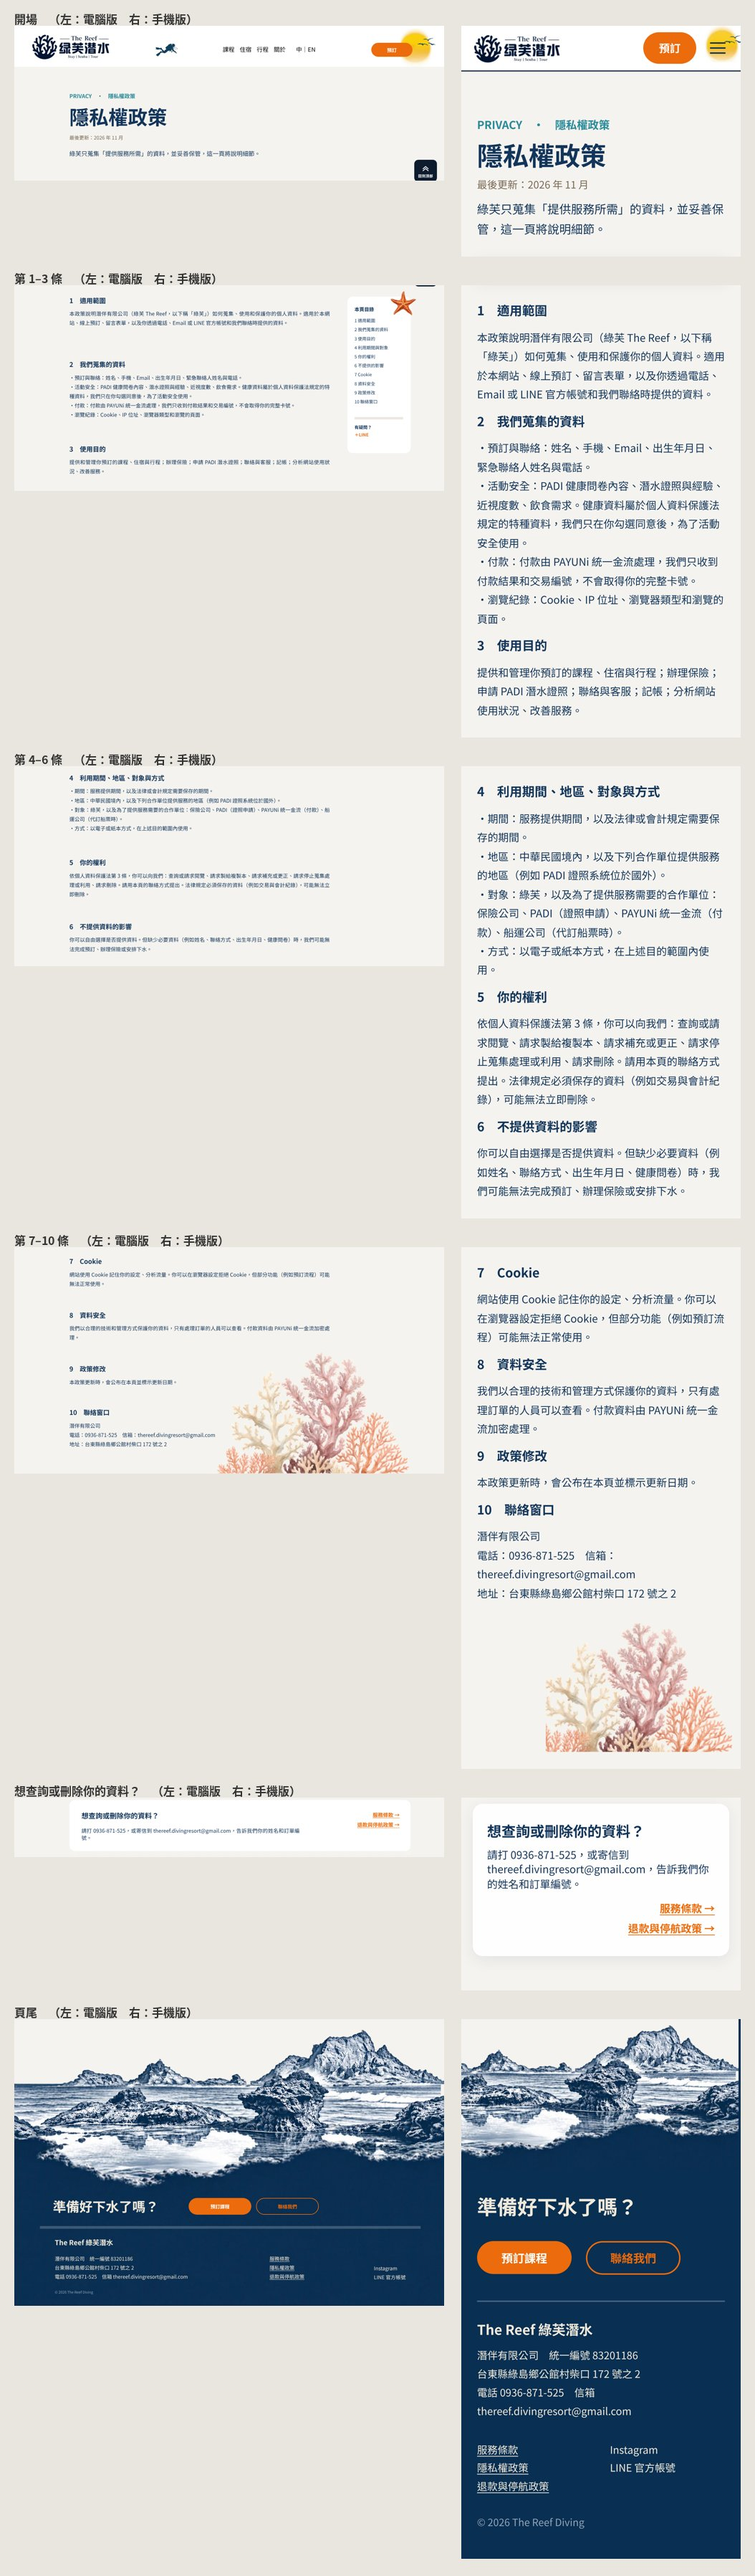
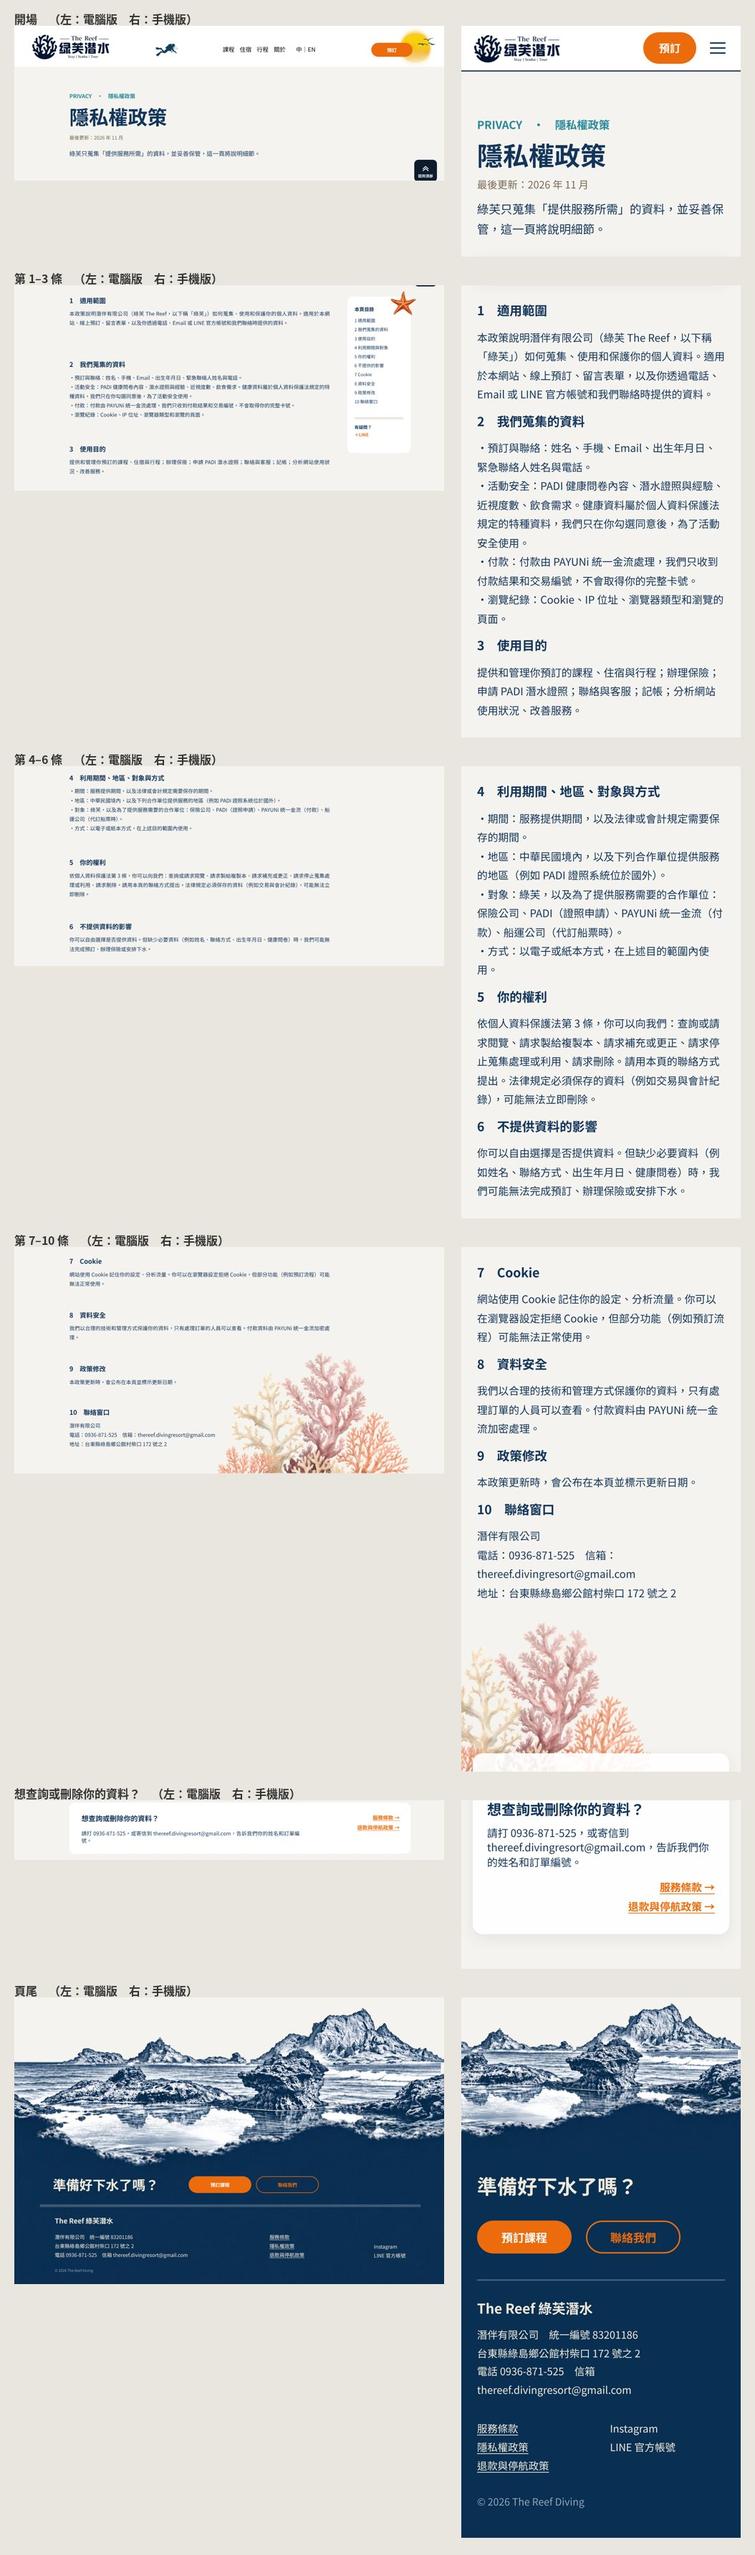
手機版：照 Ambre 11/24 回覆改完一輪（首頁、預訂目錄、條款、隱私權、課程、住宿、行程、關於、全站回到頂部與頁首）；電腦版跟 main 逐像素相同
Claude-Session: https://claude.ai/code/session_01CnUJQbiMrA1W4TEKzzgQDp

diff --git a/scripts/mobile-blocks.js b/scripts/mobile-blocks.js
@@ -19,14 +19,23 @@
 
 function r(n) { return Math.round(n * 1000) / 1000; }
 
-function bandData(b, s, imgUrl, dx, dy) {
+function bandData(b, s, imgUrl, dx, dy, page) {
   const [x0r, y0r, x1r, y1r] = b.band;
-  const x0 = x0r + dx, x1 = x1r + dx, y1 = y1r + dy, y0 = Math.max(0, y0r + dy); // 頁尾往上位移的頁：不切到底圖外面
+  // 位移後夾在底圖範圍內（頁尾往上／往左右位移的頁：不切到底圖外面，才不會露出色條）
+  // span：這塊跨到上一段或下一段（例如住宿珊瑚跨「入住前請先看」和頁尾）→ 用整頁座標，把相鄰段的底圖接起來
+  const span = !!(b.span && page && page.secs.length);
+  const x0 = Math.max(0, x0r + dx), x1 = Math.min(1440, x1r + dx), y1 = y1r + dy, y0 = span ? y0r + dy : Math.max(0, y0r + dy);
   const w = x1 - x0, h = y1 - y0;
-  const out = { type: "band", cls: b.cls || "", ar: r(w / h), maxW: b.w || null, fish: [] };
+  const out = { type: "band", cls: b.cls || "", ar: r(w / h), maxW: b.w || null, fish: [], imgs: [] };
   if (b.img !== false && !(b.img == null && b.fish !== false)) { // 有魚的插圖窗預設不帶底圖（魚直接疊在這段的底圖上，才不會有接縫）
-    out.img = imgUrl;
-    out.imgStyle = `left:${r(-x0 / w * 100)}%;top:${r(-y0 / h * 100)}%;width:${r(1440 / w * 100)}%;height:${r(s.height / h * 100)}%`;
+    const one = (src, top, height) => out.imgs.push({ src, style: `left:${r(-x0 / w * 100)}%;top:${r((top - y0) / h * 100)}%;width:${r(1440 / w * 100)}%;height:${r(height / h * 100)}%` });
+    if (span) {
+      const me = page.secs.find((x) => x.key === s.key);
+      for (const n of page.secs) {
+        const top = n.top - me.top;
+        if (top < y1 && top + n.height > y0) one(`/assets/img/${page.imgDir}/${n.img}`, top, n.height);
+      }
+    } else one(imgUrl, 0, s.height);
   }
   if (b.fish !== false) {
     const pick = Array.isArray(b.fish) ? b.fish : null;
@@ -46,7 +55,8 @@ function bandData(b, s, imgUrl, dx, dy) {
   return out;
 }
 
-module.exports = function mBlocks(s, pageKey, home, mobile, imgDir, prefix) {
+module.exports = function mBlocks(s, pageKey, home, mobile, imgDir, prefix, secs) {
+  const page = { secs: secs || [], imgDir };
   mobile = mobile || {};
   // 圖片網址：<img src> 由 Eleventy 自動加網址前綴；寫在 CSS 變數裡的要自己加（prefix＝"/" | url）
   const pre = (prefix || "/").replace(/\/$/, "");
@@ -67,7 +77,14 @@ module.exports = function mBlocks(s, pageKey, home, mobile, imgDir, prefix) {
   const isHomeOpen = pageKey === "home" && s.key === "open";
   const isHead = (e) => e.from === "open" || (isHomeOpen && e.it.y < 140);
   const isFooter = !!footerShift || (pageKey === "home" && s.key === "footer");
-  const cfg = isFooter ? (mobile.footer || {}) : (((mobile.pages || {})[pageKey] || {})[s.key] || {});
+  const pcfg = (mobile.pages || {})[pageKey] || {};
+  // 頁尾全站一份；個別頁可在 pages.<頁>.footer 寫 band（換掉插圖窗範圍）、bg、pad
+  let cfg = isFooter ? (mobile.footer || {}) : (pcfg[s.key] || {});
+  if (isFooter && pcfg.footer) {
+    const o = pcfg.footer;
+    cfg = { ...cfg, ...o, blocks: (cfg.blocks || []).filter((b) => !(b.band && o.band === false))
+      .map((b) => (b.band ? { ...b, band: o.band || b.band, cls: [b.cls, o.bandCls].filter(Boolean).join(" ") } : b)) };
+  }
   const shift = footerShift || { dx: 0, dy: 0 };
 
   const used = new Set();
@@ -86,8 +103,9 @@ module.exports = function mBlocks(s, pageKey, home, mobile, imgDir, prefix) {
   }
   const find = (ref) => entries.find((e) => !used.has(e) && !isHead(e) && e.key === ref);
   for (const b of cfg.blocks || []) {
+    if (b.scroll) { blocks.push({ type: "scroll", cls: b.cls || "" }); continue; } // 手機版「向下捲動」
     if (b.band) {
-      const bd = bandData(b, s, imgUrl, shift.dx, shift.dy);
+      const bd = bandData(b, s, imgUrl, shift.dx, shift.dy, page);
       // 疊在插圖上的文字（例如地圖上的地名）：照比例放在插圖窗裡，字至少 14px
       const [x0, y0, x1, y1] = b.band, w = x1 - x0, h = y1 - y0;
       bd.texts = [];
@@ -137,7 +155,7 @@ module.exports = function mBlocks(s, pageKey, home, mobile, imgDir, prefix) {
   if (bg.none) vars += `--mbgimg:none;`;
   if (cfg.pad) vars += `--mspad:${cfg.pad};`;
   if (cfg.msgap != null) vars += `--msgap:${cfg.msgap}px;`;
-  return { blocks, vars };
+  return { blocks, vars, cls: cfg.scls || "" };
 };
 
 // 錨點（例如 /about/#contact）在手機上的排序：放在它所在那一段的前面

diff --git a/src/assets/css/canvas-mobile.css b/src/assets/css/canvas-mobile.css
@@ -167,3 +167,27 @@
 /* 一張照片跨兩段（住宿背包客房）：下半段接在上一段最後，中間不留縫 */
 .hc-mband.joined { margin-top: calc(-1 * var(--msgap, 28px) + var(--msgap, 28px)); }
 .hc-sticky > .hc-t { line-height: 2.4 !important; } /* 目錄每一條比較好點 */
+
+/* ===== 11/24 Ambre 修改 ===== */
+/* 「向下捲動」：照開場那個樣子（粗體、字距、下面一條細線輕輕往下動），每兩段放一個 */
+.hc-mscroll { display: flex; flex-direction: column; align-items: center; gap: 10px; padding: 8px 0 4px; color: var(--msc, #fff); font-size: 14px; font-weight: 700; letter-spacing: .13em; }
+.hc-mscroll::after { content: ""; width: 1.5px; height: 40px; background: linear-gradient(currentColor, transparent); transform-origin: top; animation: hc-mscroll 2.2s ease-in-out infinite; }
+.hc-mscroll.dark { --msc: #12355b; }
+@keyframes hc-mscroll { 0% { transform: scaleY(0); opacity: 1; } 60% { transform: scaleY(1); opacity: 1; } 100% { transform: scaleY(1); opacity: 0; } }
+@media (prefers-reduced-motion: reduce) { .hc-mscroll::after { animation: none; } }
+
+/* 插圖窗上緣淡入（接上一段的底色，不留分界線） */
+.hc-mband.fade { -webkit-mask-image: linear-gradient(transparent, #000 var(--mfade, 60px)); mask-image: linear-gradient(transparent, #000 var(--mfade, 60px)); }
+.hc-mband.fade-long { --mfade: 120px; }
+/* 住宿豪華雙人房照片縮 10% */
+.hc-mband.inset.s90 { width: calc((100% - 44px) * .9); }
+/* 靠左、超出版面左邊（隱私權珊瑚），底部壓在下一段的卡片後面 */
+.hc-mband.bleedl { margin-left: -36px; margin-right: auto; }
+.hc-sec.overlap-up { z-index: 2; }
+.hc-sec.overlap-up > .hc-mg.card:first-child { margin-top: -26px; }
+/* 跟在文字旁邊上下飄的小插圖（關於頁水母，放在「在 Google 地圖開啟」右邊） */
+.hc-mband.beside { width: 56px; margin: calc(-1 * var(--msgap, 28px) - 58px) 0 0 210px; overflow: visible; }
+
+/* 課程頁：字再小 15%（內文最小 14px 不變） */
+.hc-page-courses { --mk: .85; }
+.hc-page-courses .hc-t { font-size: max(14px, calc(var(--mfs, calc(var(--fs) * .62px + 4px)) * var(--mk))) !important; }

diff --git a/src/assets/js/booking.js b/src/assets/js/booking.js
@@ -164,7 +164,7 @@
   }
 
   root.innerHTML = BLOCKS.map((b) => {
-    let h = '<section class="bk-card' + (b.multi ? " bk-multi" : "") + (b.note ? "" : " no-note") + '" data-block="' + b.key + '">' +
+    let h = '<section class="bk-card' + (b.multi ? " bk-multi" : "") + (b.note ? "" : " no-note") + '" id="bk-b-' + b.key + '" data-block="' + b.key + '">' +
       '<h2 class="bk-title">' + esc(b.title) + '</h2><p class="bk-intro">' + esc(b.intro) + '</p><div class="bk-rows">';
     if (b.multi) {
       h += '<details class="bk-ms"><summary>請選擇（可複選）' + SP + "▾</summary><div class=\"bk-ms-list\">" +
@@ -174,6 +174,9 @@
     if (b.note) h += '<p class="bk-note"></p>';
     return h + "</section>";
   }).join("");
+  // 手機版「目錄區塊」（11/24 Ambre）：列出七個區塊，點了跳過去；電腦版 CSS 不顯示
+  const toc = document.getElementById("bk-toc-list");
+  if (toc) toc.innerHTML = BLOCKS.map((b) => '<li><a href="#bk-b-' + b.key + '">' + esc(b.title.replace(/（可複選）/, "")) + "</a></li>").join("");
 
   const rowEl = (b, r) => root.querySelector('.bk-row[data-block="' + b.key + '"][data-row="' + r.key + '"]:not([data-extra])');
   const extraEl = (b, r) => root.querySelector('.bk-row[data-block="' + b.key + '"][data-row="' + r.key + '"][data-extra]');

diff --git a/src/assets/css/booking.css b/src/assets/css/booking.css
@@ -139,6 +139,8 @@ body:has(.bk) .hc-scale { overflow-x: clip; }
 .bk-info h3 { margin: 0 0 8px; color: #12355b; font-size: 15.3px; font-weight: 700; }
 .bk-info p { margin: 0; }
 
+.bk-toc { display: none; } /* 目錄區塊只在手機顯示 */
+
 /* ---------- 手機（≤768px）：同樣的卡片、框線、橘色按鈕，改成一欄由上往下；訂單摘要接在表單下面 ---------- */
 @media (max-width: 768px) {
   .hc-flow, .bk { width: 100%; }
@@ -202,4 +204,10 @@ body:has(.bk) .hc-scale { overflow-x: clip; }
   .bk-sum-total span { font-size: 18px; }
   .bk-sum-total strong { font-size: 23px; }
   .bk-summary .bk-next { width: 100%; }
+  /* 目錄區塊（11/24 Ambre）：最上面一張卡，兩欄，點了跳到該區塊 */
+  .bk[data-step="1"] .bk-toc { display: block; margin: 0 12px 16px; padding: 16px 16px 10px; border-radius: 16px; background: #fff; }
+  .bk-toc-h { margin: 0 0 6px; font-size: 16px; font-weight: 700; }
+  .bk-toc ol { display: grid; grid-template-columns: 1fr 1fr; column-gap: 12px; margin: 0; padding: 0; list-style: none; }
+  .bk-toc a { display: flex; align-items: center; min-height: 44px; font-size: 15px; color: #12355b; text-decoration: none; border-bottom: 1px solid #ece6da; }
+  .bk-card[id] { scroll-margin-top: 12px; }
 }

diff --git a/scripts/mobile-shot.js b/scripts/mobile-shot.js
@@ -28,7 +28,7 @@ async function shoot(browser, opts, route, out) {
   await page.waitForTimeout(400);
   const info = await page.evaluate(() => ({ sw: document.documentElement.scrollWidth, cw: document.documentElement.clientWidth, h: document.documentElement.scrollHeight,
     // 每一段的位置（給 scripts/mobile-compare.py 做電腦版／手機版同一段並排比對圖）
-    secs: [...document.querySelectorAll(".hc-sec")].map((e) => { const r = e.getBoundingClientRect(); return { key: e.className.replace(/.*hc-sec-/, ""), name: e.dataset.name, y: r.top + scrollY, h: r.height }; }),
+    secs: [...document.querySelectorAll(".hc-sec")].map((e) => { const r = e.getBoundingClientRect(); return { key: (e.className.match(/hc-sec-(\S+)/) || [])[1], name: e.dataset.name, y: r.top + scrollY, h: r.height }; }),
     flow: (() => { const f = document.querySelector(".hc-flow"); if (!f) return null; const r = f.getBoundingClientRect(); return { y: r.top + scrollY, h: r.height }; })() }));
   fs.writeFileSync(out.replace(/\.png$/, ".json"), JSON.stringify(info));
   await page.screenshot({ path: out, fullPage: true });

diff --git a/src/assets/css/back-to-top.css b/src/assets/css/back-to-top.css
@@ -37,9 +37,10 @@
   .bt-label { font-size: 10px; }
 }
 
-/* 手機（≤768px，直排版）：改放右下角、捲動一段之後才出現，不擋內容 */
+/* 手機（≤768px，直排版）：11/24 Ambre：每頁一直看得到，簡化成明顯的白底深藍「向上」箭頭，固定在右下角跟著畫面 */
 @media (max-width: 768px) {
-  .back-to-top { top: auto !important; bottom: 16px; right: 12px; width: 52px; padding: 8px 4px 7px; border-radius: 12px; gap: 3px; background: rgba(13,27,46,.88); }
-  .bt-chevrons { width: 18px; height: 18px; }
-  .bt-label { font-size: 10px; letter-spacing: 0; }
+  .back-to-top { top: auto !important; bottom: 18px; right: 14px; width: 48px; height: 48px; padding: 0; border-radius: 50%; gap: 0;
+    background: #fff; color: #12355b; border: 2px solid #12355b; box-shadow: 0 6px 16px rgba(13,27,46,.25); }
+  .bt-chevrons { width: 22px; height: 22px; color: #12355b; }
+  .bt-label { position: absolute; width: 1px; height: 1px; overflow: hidden; clip: rect(0 0 0 0); }
 }

diff --git a/src/assets/js/back-to-top.js b/src/assets/js/back-to-top.js
@@ -22,9 +22,7 @@
   function updateVisible() {
     // 只有頁面比一個螢幕高度長才需要「回到頂部」（11/17 Ambre：超過一卷的頁面才加）
     var scrollable = document.documentElement.scrollHeight > window.innerHeight + 80;
-    // 手機直排版（≤768px）：捲過大半個螢幕才出現，不擋開場內容
-    var narrow = window.matchMedia && window.matchMedia("(max-width: 768px)").matches;
-    btn.classList.toggle("is-visible", scrollable && (!narrow || window.scrollY > window.innerHeight * 0.8));
+    btn.classList.toggle("is-visible", scrollable); // 11/24 Ambre：手機也一進頁面就看得到
   }
 
   // 一進頁面就顯示並跟著滑鼠（11/17 Ambre：不用等捲動），先放在畫面中央

diff --git a/src/assets/css/canvas-page.css b/src/assets/css/canvas-page.css
@@ -125,4 +125,4 @@ label.hc-t { cursor: pointer; }
 
 /* 手機版（≤768px，canvas-mobile.css）用的分組外框與元件：電腦版不產生方框、不顯示，畫面跟原本一樣 */
 .hc-mg { display: contents; }
-.hc-mband, .hc-mlogo, .hc-msun, .hc-mnav-btn { display: none; }
+.hc-mband, .hc-mlogo, .hc-msun, .hc-mnav-btn, .hc-mscroll { display: none; }

diff --git a/docs/手機版修改_1124.md b/docs/手機版修改_1124.md
@@ -5,44 +5,44 @@
 > 每做完一頁：在本檔該項後面打 ✅、commit＋push `mobile`。
 
 ## 首頁
-1. 第 1 段（12 m）：照片和文字兩塊上下對調 → 先文字（12 m 大字＋短暫成為海洋世界的一部分），再照片。（Ambre 截圖：潛水員照片在上、12 m 文字在下，要倒過來）
-2. 每兩段加一個「向下捲動」（照開場那個「向下捲動」的樣子）。
-3. 第 2 段（18 m／30 m 那段）：照片（插圖）和文字兩塊上下對調；**海扇、鰻魚不要出現**。
-4. 頁首拿掉黃色太陽（全站頁首共用，一起拿掉）。
+1. 第 1 段（12 m）：照片和文字兩塊上下對調 → 先文字（12 m 大字＋短暫成為海洋世界的一部分），再照片。（Ambre 截圖：潛水員照片在上、12 m 文字在下，要倒過來） ✅
+2. 每兩段加一個「向下捲動」（照開場那個「向下捲動」的樣子）。 ✅
+3. 第 2 段（18 m／30 m 那段）：照片（插圖）和文字兩塊上下對調；**海扇、鰻魚不要出現**。 ✅
+4. 頁首拿掉黃色太陽（全站頁首共用，一起拿掉）。 ✅
 
 ## 預訂
-1. 最上面加一個「目錄區塊」（列出 ①–⑦ 七個區塊，點了跳到該區塊；手機版）。
+1. 最上面加一個「目錄區塊」（列出 ①–⑦ 七個區塊，點了跳到該區塊；手機版）。 ✅
 
 ## 服務條款
-1. 目錄卡片「有疑問？」改成「＋LINE」可點、跳 LINE（跟隱私權頁一樣用 `askLineBtn`）；**電腦版一起改**。
-2. 「還有其他問題？」那張卡下面接頁尾的底圖：銜接處不自然，要自然接上面的藍海，不能有線條分界。（右邊還有一條深色細條＝頁尾插圖窗超出底圖右緣，見全站 3）
+1. 目錄卡片「有疑問？」改成「＋LINE」可點、跳 LINE（跟隱私權頁一樣用 `askLineBtn`）；**電腦版一起改**。✅（另一個視窗 11/24 已做：main 1b5cc5a，已合併進 mobile）
+2. 「還有其他問題？」那張卡下面接頁尾的底圖：銜接處不自然，要自然接上面的藍海，不能有線條分界。（右邊還有一條深色細條＝頁尾插圖窗超出底圖右緣，見全站 3） ✅
 
 ## 隱私權政策
-1. 第 10 條後面的珊瑚：不要有明顯邊界，靠左、直接超出版面（貼右邊緣出去）、底部跟下面「想查詢或刪除你的資料？」卡片貼齊。
-2. 頁尾右邊（「退款與停航政策」旁邊）兩塊底圖重疊、凸出約 2–3px → 改順。（＝頁尾插圖窗 x 超過 1440，見全站 3）
+1. 第 10 條後面的珊瑚：不要有明顯邊界，靠左、直接超出版面（貼右邊緣出去）、底部跟下面「想查詢或刪除你的資料？」卡片貼齊。 ✅
+2. 頁尾右邊（「退款與停航政策」旁邊）兩塊底圖重疊、凸出約 2–3px → 改順。（＝頁尾插圖窗 x 超過 1440，見全站 3） ✅
 
 ## 課程
-1. 「下水前請先看」接頁尾的地方底圖不流暢、有明顯分線。（課程頁尾往上位移 74px，頁尾插圖窗頂端切到上面的深色礁石）
-2. 所有字再小 15%（手機版；內文最小 14px 的規則還是要守，已經 14px 的不再縮）。
-3. 「下水前請先看」底色再壓暗一點，太亮看不清字。
+1. 「下水前請先看」接頁尾的地方底圖不流暢、有明顯分線。（課程頁尾往上位移 74px，頁尾插圖窗頂端切到上面的深色礁石） ✅
+2. 所有字再小 15%（手機版；內文最小 14px 的規則還是要守，已經 14px 的不再縮）。 ✅
+3. 「下水前請先看」底色再壓暗一點，太亮看不清字。 ✅
 
 ## 住宿
-1. 每間房的順序改成：插圖（房子）＞文字＞照片。
-2. 豪華雙人房照片框縮小 10%。
-3. 「入住前請先看」的珊瑚破圖（被切成上下兩塊）→ 接成一張。（珊瑚跨「入住前請先看」底圖和頁尾底圖兩張圖）
+1. 每間房的順序改成：插圖（房子）＞文字＞照片。 ✅
+2. 豪華雙人房照片框縮小 10%。 ✅
+3. 「入住前請先看」的珊瑚破圖（被切成上下兩塊）→ 接成一張。（珊瑚跨「入住前請先看」底圖和頁尾底圖兩張圖） ✅
 
 ## 行程
-1. 每兩段加「向下捲動」（同首頁 2）。
+1. 每兩段加「向下捲動」（同首頁 2）。 ✅
 
 ## 關於綠芙
-1. 開場順序改成：圓形照片＞文字介紹（從小在關島長大…）＞潛水衣張嘴插圖（KEN）。
-2. 聯絡我們：女孩（美人魚潛水員）插圖不要出現；只留一隻小水母，上下飄在「在 Google 地圖開啟」旁邊。
+1. 開場順序改成：圓形照片＞文字介紹（從小在關島長大…）＞潛水衣張嘴插圖（KEN）。 ✅
+2. 聯絡我們：女孩（美人魚潛水員）插圖不要出現；只留一隻小水母，上下飄在「在 Google 地圖開啟」旁邊。 ✅
 
 ## 全站
-1. 每頁都要有「回到頂部」，跟電腦版一樣一直看得到；手機可以簡化成明顯的「向上」箭頭（例如反白底色），跟著畫面捲動（固定在畫面上）。（目前手機版要捲過大半個螢幕才出現，Ambre 以為沒有）
-2. （同首頁 4）頁首拿掉太陽。
-3. （Claude 發現）頁尾插圖窗：dx 讓 x 超過 0–1440 時，右邊露出深色細條 → `scripts/mobile-blocks.js` 的 bandData 把 x 範圍夾在底圖內。
+1. 每頁都要有「回到頂部」，跟電腦版一樣一直看得到；手機可以簡化成明顯的「向上」箭頭（例如反白底色），跟著畫面捲動（固定在畫面上）。（目前手機版要捲過大半個螢幕才出現，Ambre 以為沒有） ✅
+2. （同首頁 4）頁首拿掉太陽。 ✅
+3. （Claude 發現）頁尾插圖窗：dx 讓 x 超過 0–1440 時，右邊露出深色細條 → `scripts/mobile-blocks.js` 的 bandData 把 x 範圍夾在底圖內。 ✅
 
-## 做完
+## 做完（11/24 凌晨全部改完：手機檢查、npm test、預訂流程手機／電腦、條款目錄檢查全過；電腦版跟 main 逐像素相同）
 - 九頁重截手機圖（`node scripts/mobile-shot.js docs/compare/mobile both` → `mobile-compare.py`）、`node scripts/mobile-check.js`、npm test、`MOBILE=1 node scripts/booking-flow-test.js`、電腦版逐像素比（跟 origin/main 比，服務條款目錄卡片那一塊除外）。
 - 傳有改的頁面截圖給 Ambre、推播；**不上線、不合併 main**，等她說 OK。

diff --git a/docs/手機版進度.md b/docs/手機版進度.md
@@ -41,3 +41,5 @@
 - npm test 32 題、預訂流程 17 項、預訂網頁驗算（手機、電腦都）全過；條款目錄檢查電腦版全過。
 - `MOBILE=1 about-form-test` 只有「頁尾聯絡我們 → 捲到 y=1250」這項不符：那是電腦版座標，手機上錨點在「聯絡我們」那段開頭，正常。
 - 11/23（排程重複啟動）：九頁早已做完，沒有重做；只把 main 的 1b5cc5a（條款側欄＋LINE）合併進來，服務條款電腦版 1440／1280 跟 main 逐像素相同、手機檢查過、32 題驗算過。
+
+- 11/24：照 Ambre 回覆改完一輪（清單與做法見 `docs/手機版修改_1124.md`）。新功能：手機「向下捲動」（mobile.json 區塊 `{ "scroll": true }`）、跨段插圖窗（`span: true`，整頁座標接相鄰段底圖）、插圖窗上緣淡入（cls `fade`）、各頁頁尾可覆寫（pages.<頁>.footer：band／bandCls／bg）、段落 class（`scls`）、預訂頁手機目錄區塊、回到頂部手機版改成一直顯示的白底箭頭、頁首拿掉太陽。
